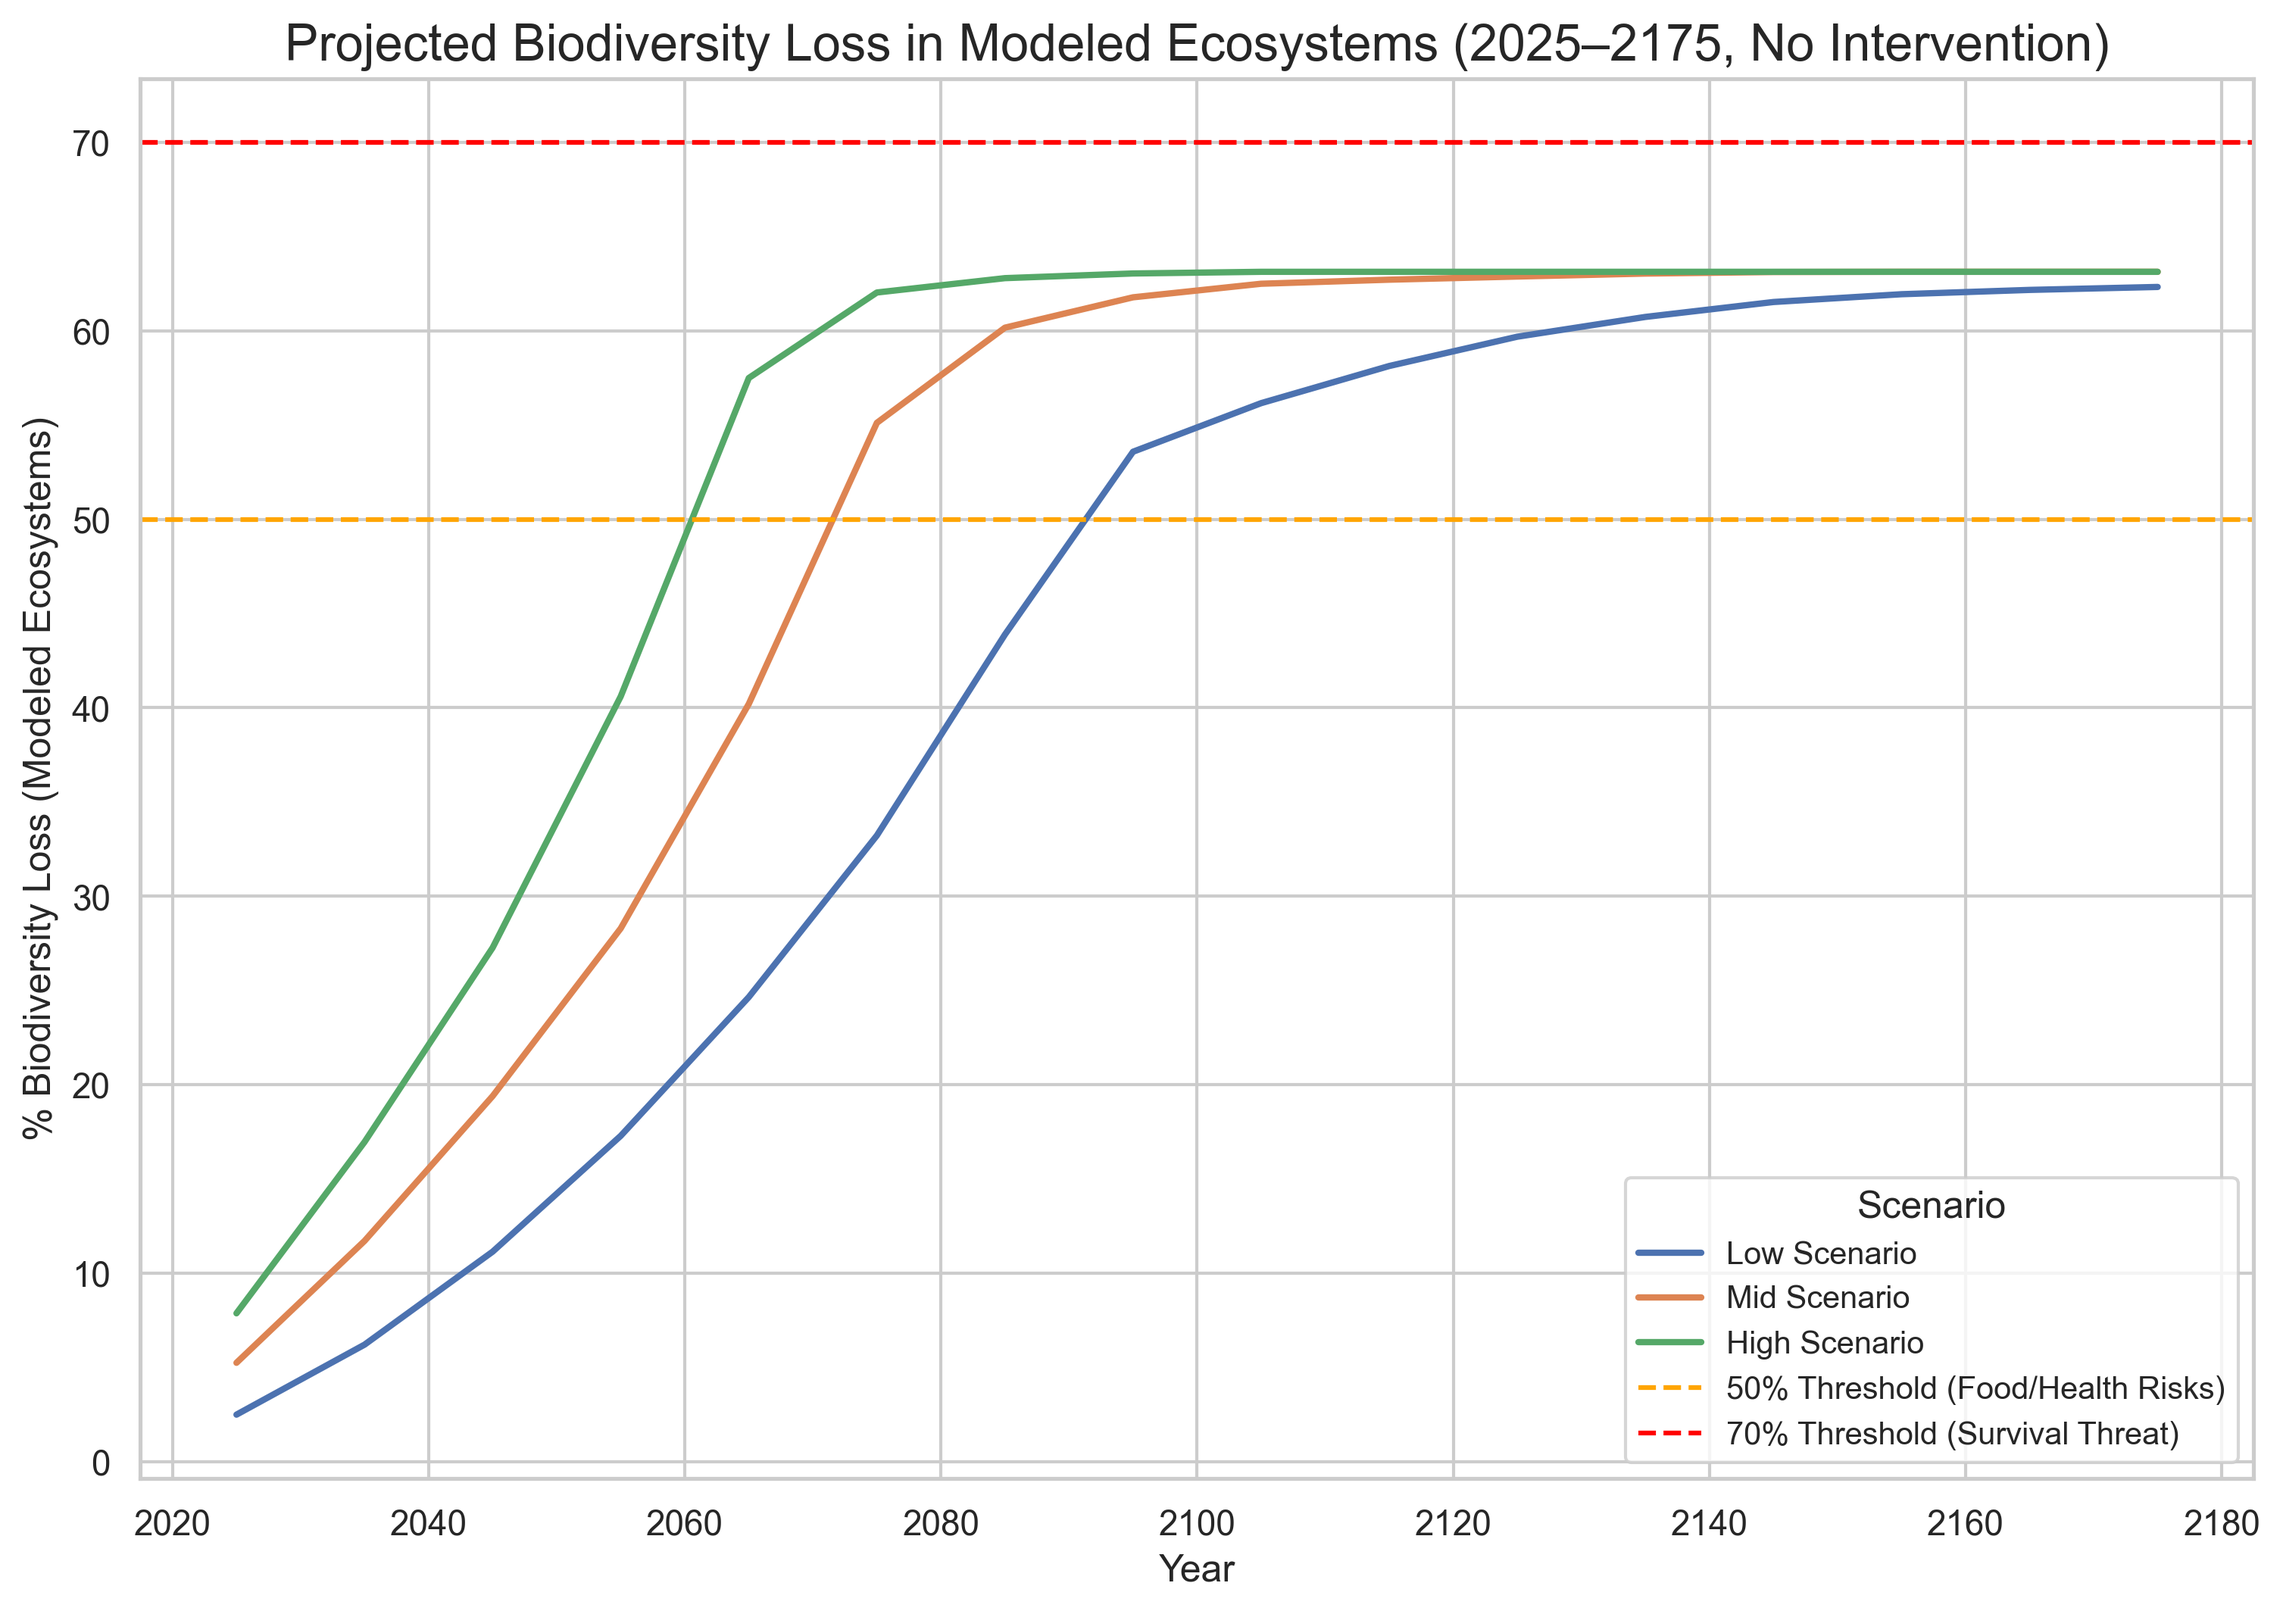
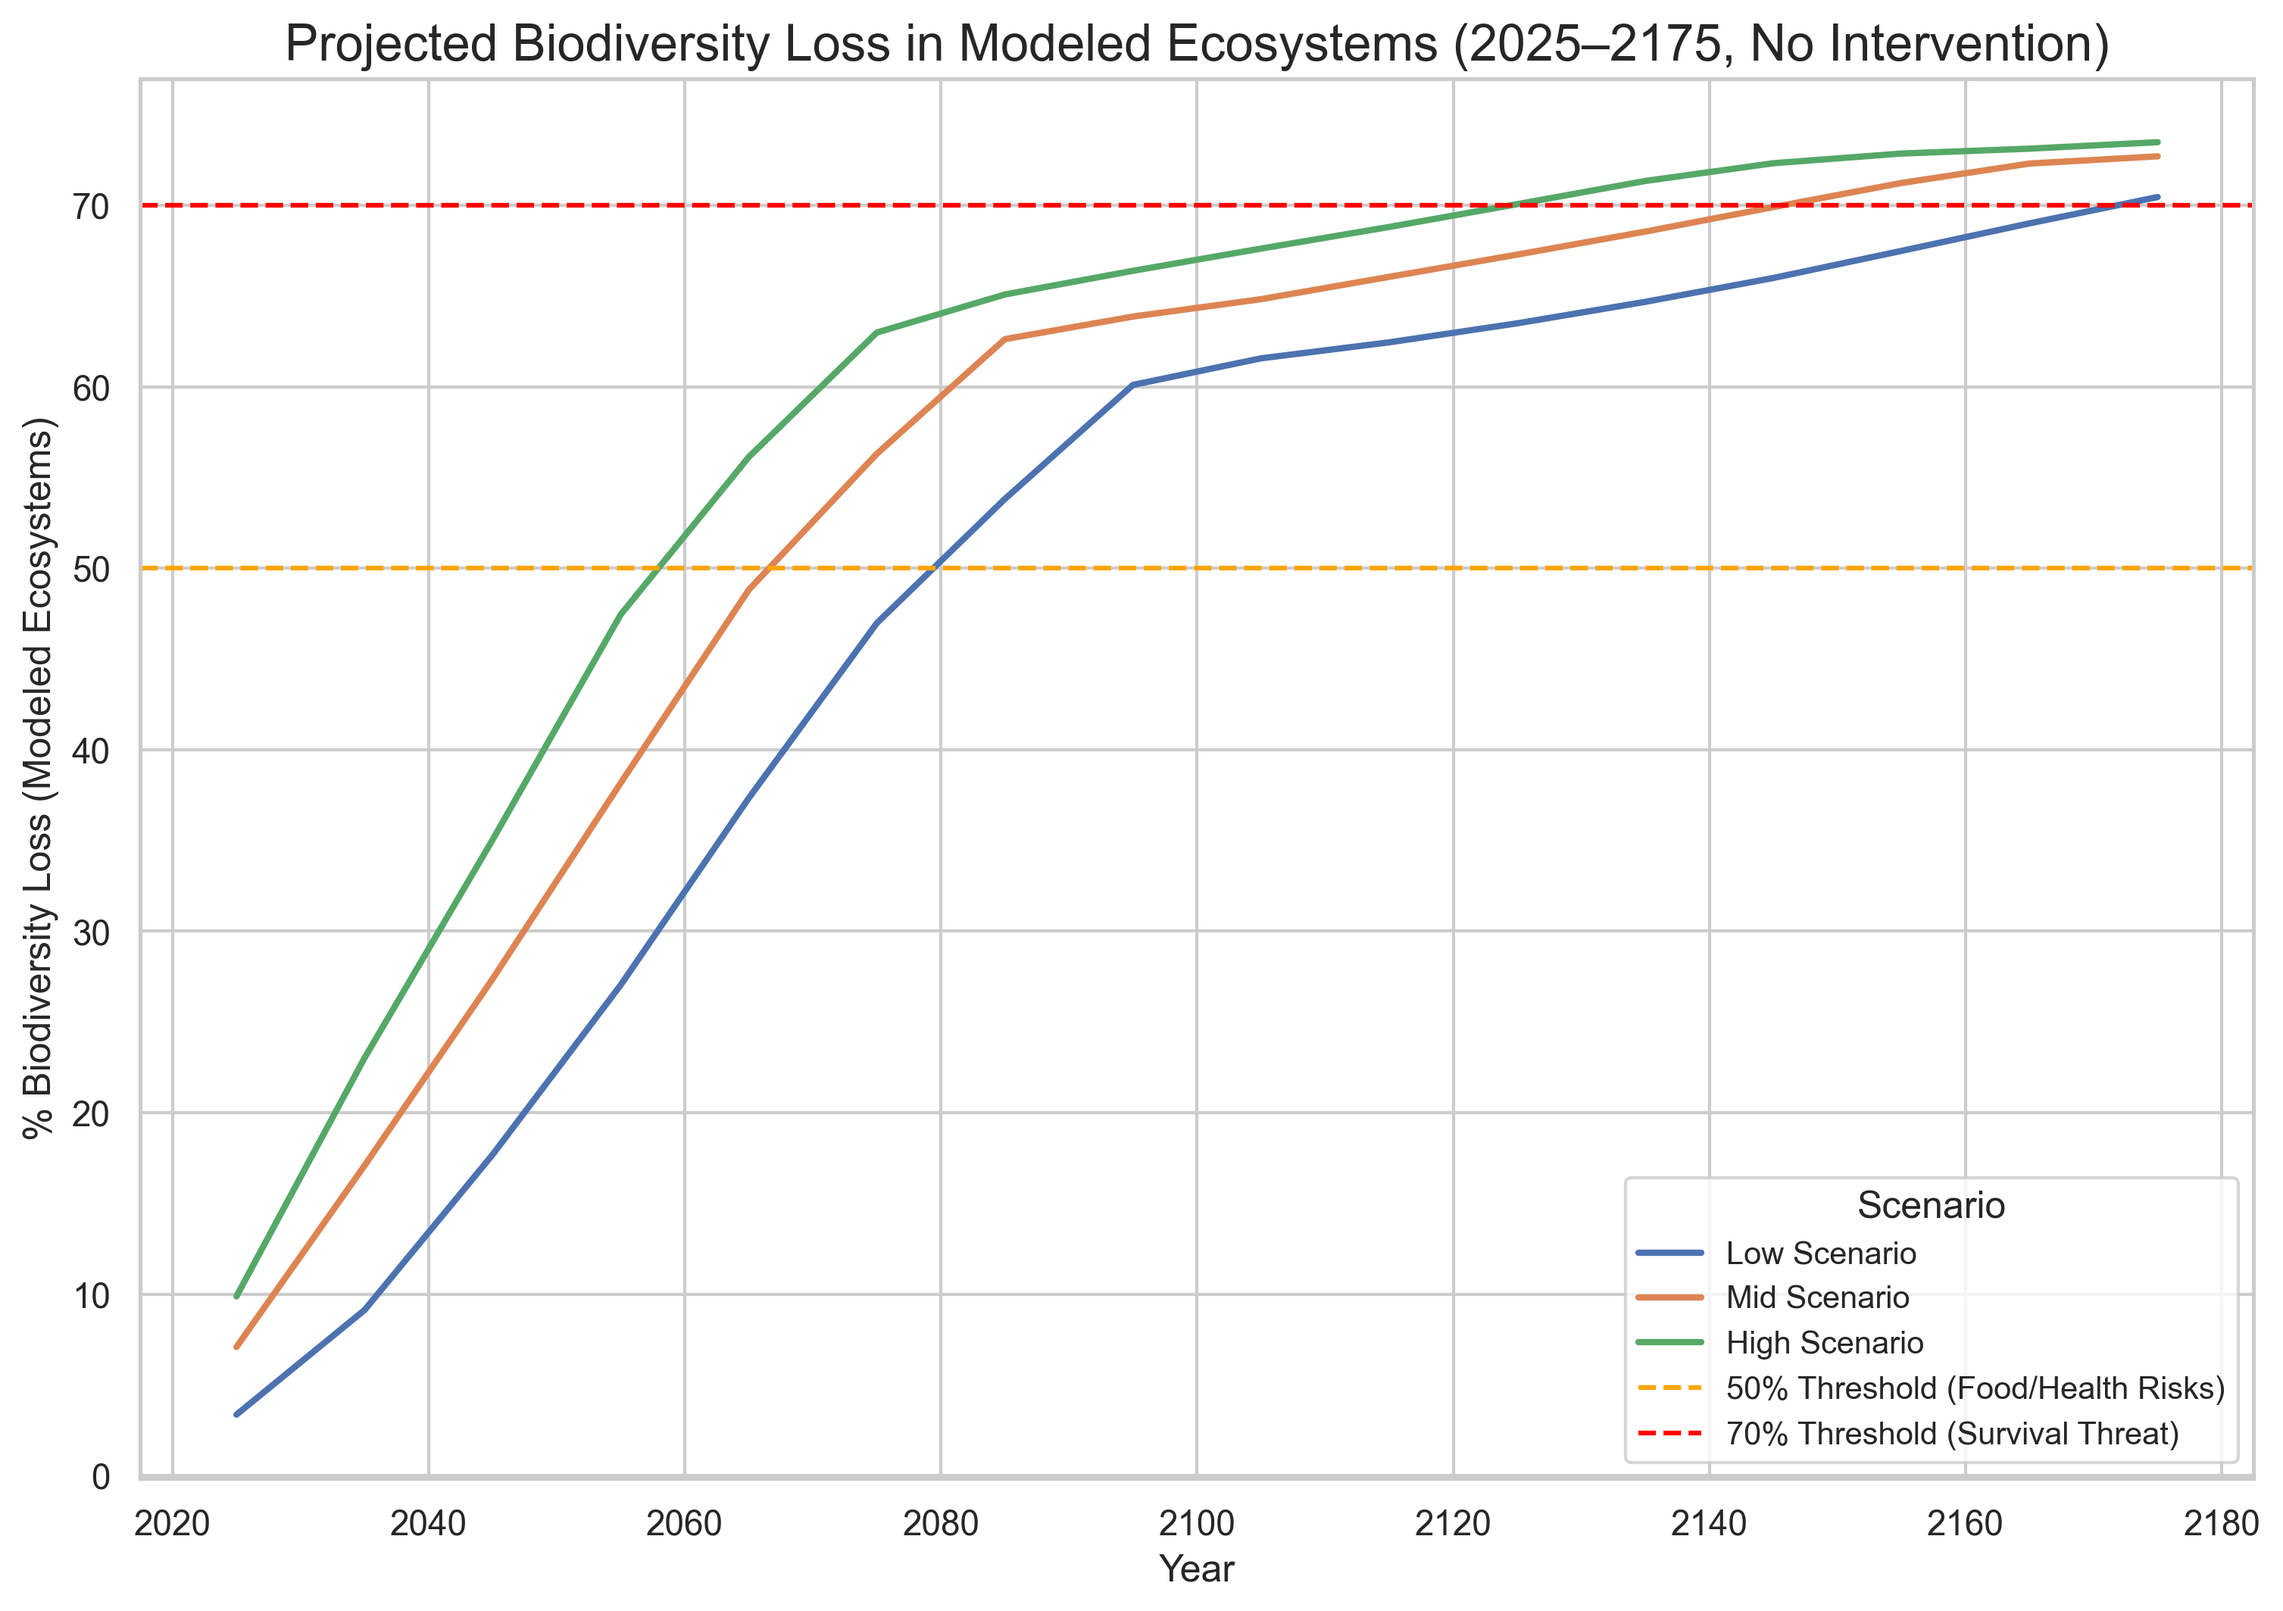
Model updated with full transition logic

diff --git a/simulations/ecosystem_cascade.py b/simulations/ecosystem_cascade.py
@@ -57,31 +57,64 @@ transform_baselines = {
     'Oceans': 0.40,             # Warmer, less diverse
     'Temperate Forests': 0.50   # Drier woodland
 }
+# Transformation mappings (ecosystem → new state)
+transform_targets = {
+    'Amazon Rainforest': 'Savanna Grasslands',  # Rainforest to steppe
+    'Coral Reefs': 'Oceans',                    # Reefs to algae-dominated sea
+    'Arctic Sea Ice': 'Oceans',                 # Ice to open water
+    'Boreal Forests': 'Savanna Grasslands',     # Taiga to shrubland
+    'Savanna Grasslands': None,                 # Already transformed-like
+    'Wetlands': 'Savanna Grasslands',           # Drained to dryland
+    'Oceans': None,                             # Stays oceanic, just warmer
+    'Temperate Forests': 'Savanna Grasslands'   # Forest to woodland
+}
+
+# Final degraded baselines
+final_baselines = {
+    'Amazon Rainforest': 0.10, 'Coral Reefs': 0.05, 'Arctic Sea Ice': 0.20,
+    'Boreal Forests': 0.20, 'Savanna Grasslands': 0.40, 'Wetlands': 0.15,
+    'Oceans': 0.25, 'Temperate Forests': 0.30
+}
 
 def run_ecosystem_simulation(scenario):
     loss_dict = {eco: np.zeros((n_iter, len(years))) for eco in ecosystems}
+    transformed = {eco: np.zeros(n_iter, dtype=bool) for eco in ecosystems}
     for t, year in enumerate(years):
         for eco in ecosystems:
-            mean_loss = base_loss_means[eco][scenario]
-            annual_loss = stats.norm(loc=mean_loss, scale=base_loss_std).rvs(n_iter)
+            # Check transformation using ecosystem's specific threshold
+            if t > 0:
+                transformed[eco] = loss_dict[eco][:, t-1] >= transform_baselines[eco]
+            # Determine target ecosystem and mean loss
+            target_eco = transform_targets[eco]
+            # Apply target loss rate only to transformed simulations
+            current_means = np.full(n_iter, base_loss_means[eco][scenario])
+            if target_eco:
+                transformed_mask = transformed[eco]
+                current_means[transformed_mask] = base_loss_means[target_eco][scenario]
+            annual_loss = stats.norm(loc=current_means, scale=base_loss_std).rvs()
             loss_dict[eco][:, t] = loss_dict[eco][:, t-1] + annual_loss if t > 0 else annual_loss
+            # Apply nuclear effect
             if t > 0 and np.any(nuclear_occurs):
                 nuclear_effect = nuclear_occurs * nuclear_loss * (t / len(years))
                 loss_dict[eco][:, t] += nuclear_effect
+            # Apply cascade effects
             for source_eco, targets in cascade_effects.items():
-                if source_eco != eco and eco in targets and np.mean(loss_dict[source_eco][:, t]) > 0.5:
-                    loss_dict[eco][:, t] *= targets[eco]
-            # Cap loss at transformed state
-            max_loss = 1.0 - transform_baselines[eco]
+                if eco in targets:
+                    source_losses = loss_dict[source_eco][:, t]
+                    multiplier = targets[eco]
+                    # Check if source ecosystem has transformed in each simulation
+                    source_transformed = source_losses >= transform_baselines[source_eco]
+                    reduced_multiplier = multiplier * 0.8
+                    # Apply reduced multiplier where source is transformed
+                    cascade_multipliers = np.where(source_transformed, reduced_multiplier, multiplier)
+                    loss_dict[eco][:, t] *= cascade_multipliers
+            # Cap losses at ecosystem's maximum allowed loss
+            max_loss = 1.0 - final_baselines[eco]
             loss_dict[eco][:, t] = np.minimum(loss_dict[eco][:, t], max_loss)
     return loss_dict
 
+
 results = {scenario: run_ecosystem_simulation(scenario) for scenario in ['Low', 'Mid', 'High']}
-for scenario in results:
-    for eco in ecosystems:
-        mean_loss_2175 = np.mean(results[scenario][eco][:, -1]) * 100
-        ci_2175 = np.percentile(results[scenario][eco][:, -1], [2.5, 97.5]) * 100
-        print(f"{eco}: Net Loss 2175 = {mean_loss_2175:.1f}%, 95% CI = {ci_2175[0]:.1f}–{ci_2175[1]:.1f}%")
 
 species_weights = {
     'Amazon Rainforest': 0.125, 'Coral Reefs': 0.07, 'Arctic Sea Ice': 0.0075,
@@ -90,21 +123,35 @@ species_weights = {
 }
 
 total_loss = {scenario: np.zeros((n_iter, len(years))) for scenario in ['Low', 'Mid', 'High']}
-for scenario in results:
-    for t in range(len(years)):
-        total_loss[scenario][:, t] = sum(results[scenario][eco][:, t] * species_weights[eco] 
-                                        for eco in ecosystems)
-    total_mean_2175 = np.mean(total_loss[scenario][:, -1]) * 100
-    global_mean_2175 = total_mean_2175 * 0.7075
-    print(f"Total Modeled Net Loss 2175: {total_mean_2175:.1f}% (~{global_mean_2175:.1f}% global)")
+
 
 for scenario in ['Low', 'Mid', 'High']:
+    for t in range(len(years)):
+        # Weighted sum across ecosystems
+        total_loss[scenario][:, t] = sum(
+            results[scenario][eco][:, t] * species_weights[eco] 
+            for eco in ecosystems
+        )
+
+for scenario in ['Low', 'Mid', 'High']:
+    print(f"\n---- {scenario} Scenario Results ----")
+    
+    # Ecosystem-specific results
+    for eco in ecosystems:
+        mean_loss_2175 = np.mean(results[scenario][eco][:, -1]) * 100
+        ci_2175 = np.percentile(results[scenario][eco][:, -1], [2.5, 97.5]) * 100
+        print(f"{eco}: Net Loss 2175 = {mean_loss_2175:.1f}%, 95% CI = {ci_2175[0]:.1f}–{ci_2175[1]:.1f}%")
+    
+    # Total/global results
     total_mean_2175 = np.mean(total_loss[scenario][:, -1]) * 100
     total_ci_2175 = np.percentile(total_loss[scenario][:, -1], [2.5, 97.5]) * 100
     global_mean_2175 = total_mean_2175 * 0.7075  # Modeled contribution
     global_ci_2175 = total_ci_2175 * 0.7075
-    print(f"Total Modeled Loss 2175: {total_mean_2175:.1f}%, 95% CI = {total_ci_2175[0]:.1f}–{total_ci_2175[1]:.1f}%")
-    print(f"Est. Global Loss 2175: {global_mean_2175:.1f}%, 95% CI = {global_ci_2175[0]:.1f}–{global_ci_2175[1]:.1f}% (modeled 70% only)")
+    
+    print(f"\nTotal Modeled Loss 2175: {total_mean_2175:.1f}%, 95% CI = {total_ci_2175[0]:.1f}–{total_ci_2175[1]:.1f}%")
+    print(f"Est. Global Loss 2175: {global_mean_2175:.1f}%, 95% CI = {global_ci_2175[0]:.1f}–{global_ci_2175[1]:.1f}%")
+
+    # Threshold checks
     mean_2125 = np.mean(total_loss[scenario][:, -6]) * 100
     global_2125 = mean_2125 * 0.7075
     if global_2125 > 50:
